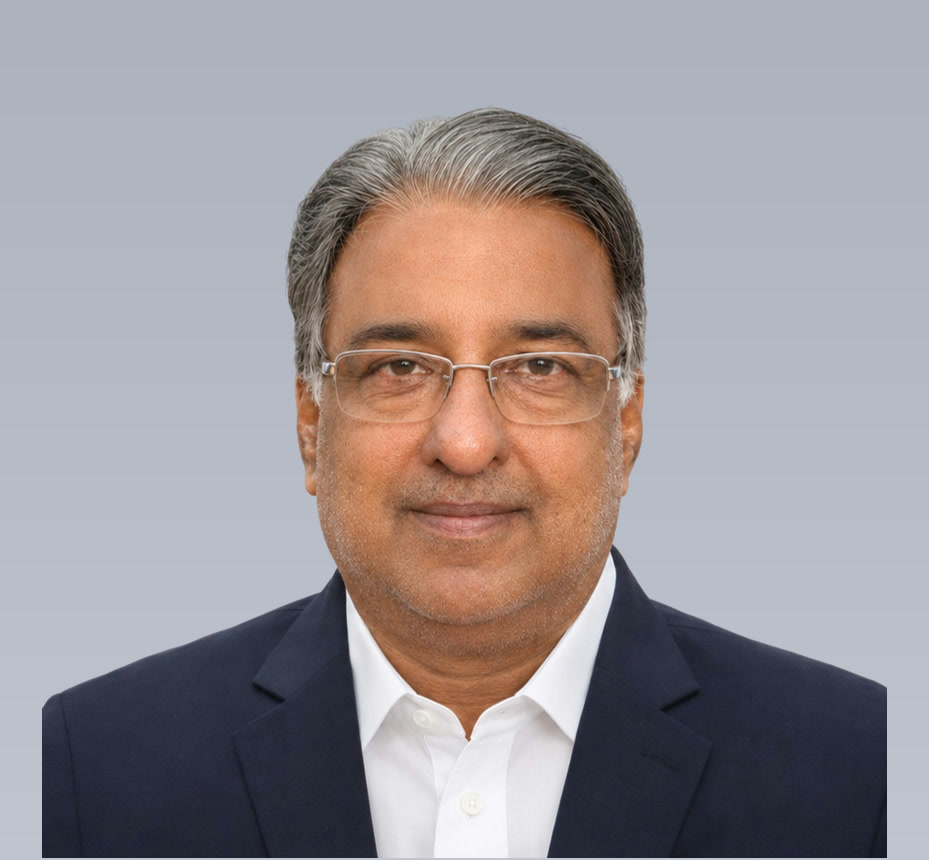
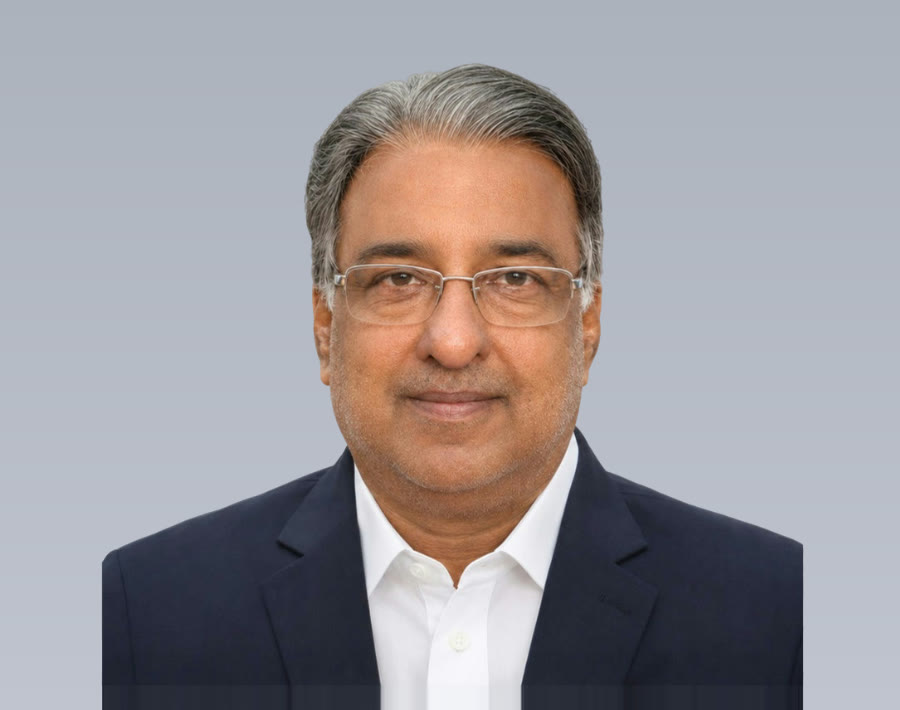
Line the team photographs up with each other
Three of the six were built to different dimensions — 929x860, 640x640
and 1312x1259 against the 900x710 the other three share. object-fit
crops each aspect ratio differently, so the faces sat at different
heights and sizes, and Subramanian's square photo cropped down to not
much more than his eyes. His was also on white, which the card's
multiply blend swallowed, leaving him floating.

PR, Subramanian and Adithya are rebuilt the same way as the other three:
cut out, then composited onto the shared grey backdrop with the head
297px wide, the crown at y=63 and the face centred on x=453 — the
average of Suresh, Thauth and Vijay. All six are now 900x710 with the
same internal geometry, so any crop the CSS applies hits them
identically at every viewport. Measured in the browser, every crown
lands at 8.9% of tile height.

Adithya's inline object-position:50% 0% went with it. That was a patch
for his old off-standard image; against a matched one it would have
shifted him up and undone the alignment.

Subramanian's photo is the lowest resolution of the set and is scaled up
about a third. It was left that way on purpose: an AI upscale came back
with a different man's face, so a slightly soft picture of him beats a
sharp picture of someone else.

diff --git a/about.html b/about.html
@@ -98,7 +98,7 @@
               <div class="lc-body"><span class="lc-role">Operations head</span><b>Thauth Kathri</b></div>
             </article>
             <article class="lead-card reveal d1">
-              <figure class="lc-photo"><span class="lc-idx" aria-hidden="true">05</span><img src="img/team/adithya.jpg" alt="Adithya Shubam" loading="lazy" style="object-position:50% 0%"></figure>
+              <figure class="lc-photo"><span class="lc-idx" aria-hidden="true">05</span><img src="img/team/adithya.jpg" alt="Adithya Shubam" loading="lazy"></figure>
               <div class="lc-body"><span class="lc-role">Sales head</span><b>Adithya Shubam</b></div>
             </article>
             <article class="lead-card reveal d2">
